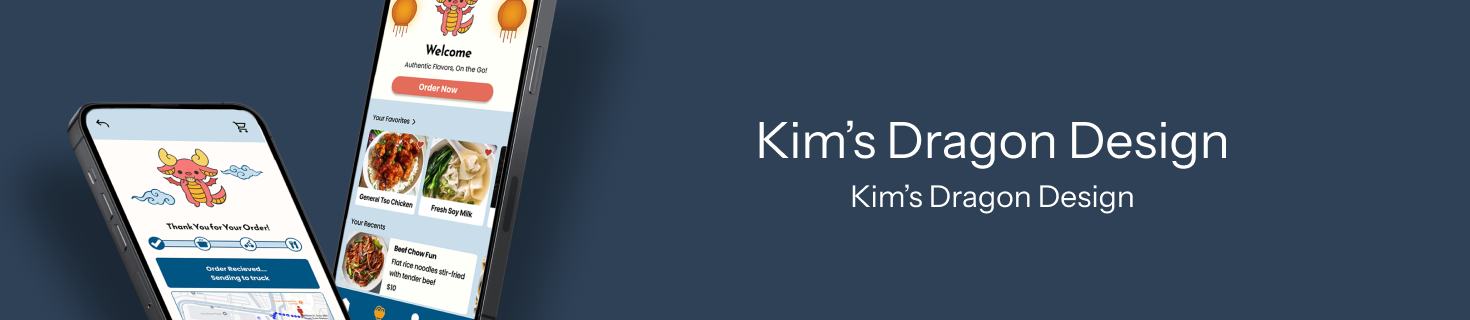
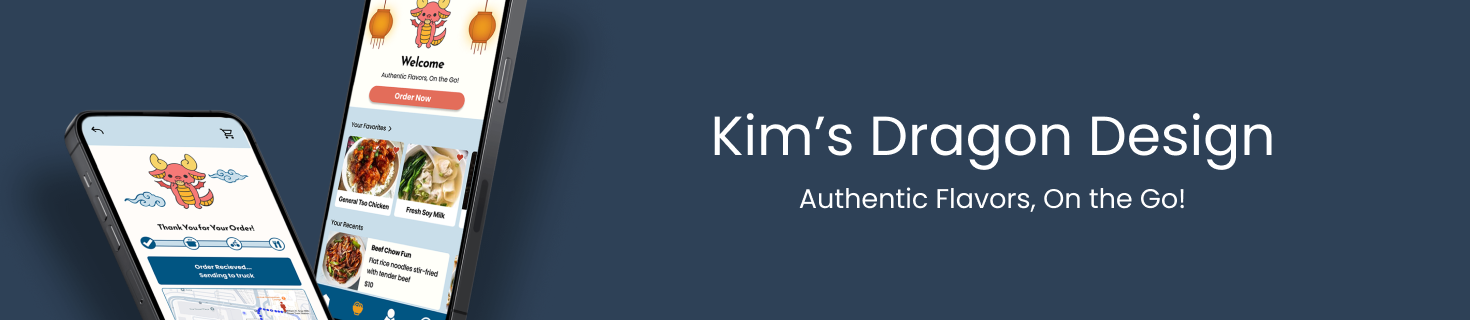
updates

Changed region(s): [[0.0306, 0.0, 0.398, 1.0], [0.4592, 0.3438, 0.8878, 0.5312], [0.5204, 0.5625, 0.8265, 0.6562]]

diff --git a/index.html b/index.html
@@ -11,7 +11,7 @@
  <!-- Header Section -->
  <header class="header">
 	<div class="header-content">
-			<img src="images/header.png">
+			<img class="hero-img" src="images/header.png">
 	</div>
 </header>
 

diff --git a/styles.css b/styles.css
@@ -49,6 +49,10 @@ img {
 	margin-top: 10px;
 }
 
+.hero-img {
+	margin: 0;
+}
+
 /* Main Layout */
 .content {
 	display: flex;
